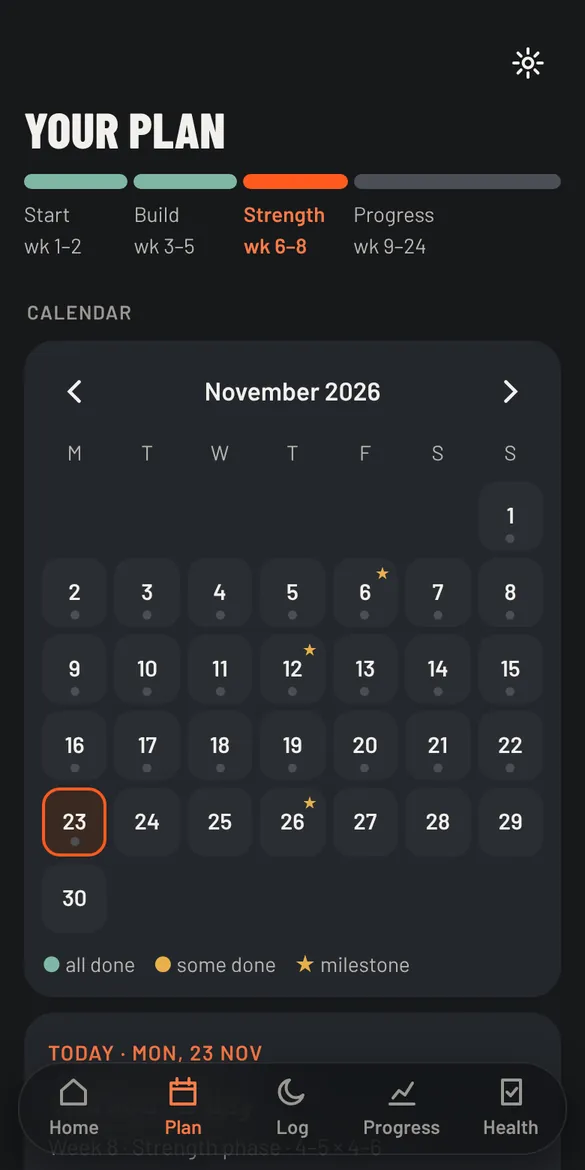
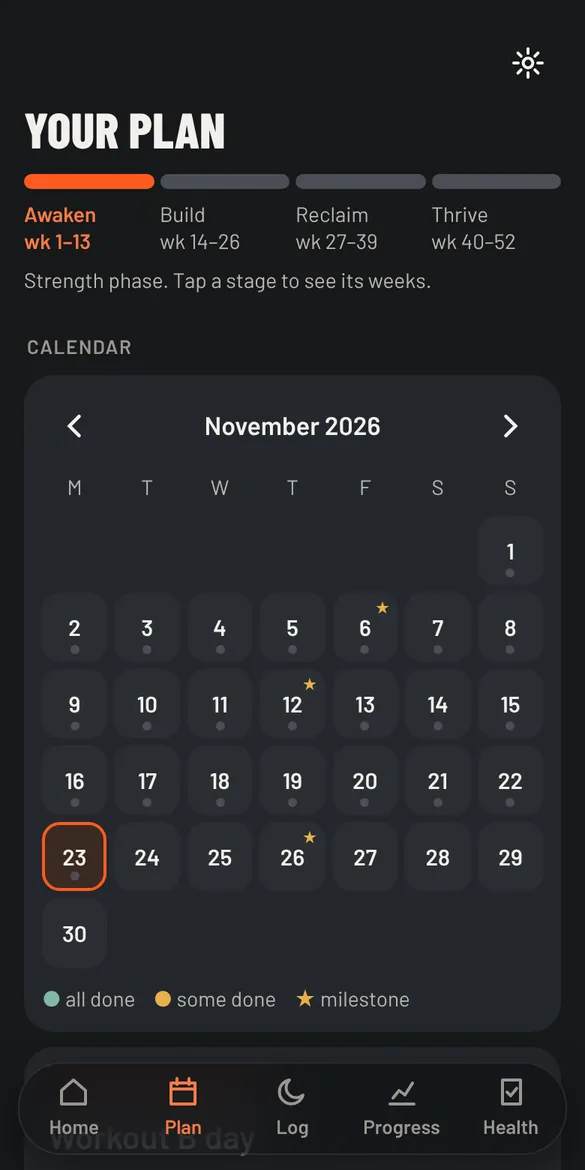
Align the website with the released 52-week app
- 52 weeks in four stages throughout: title, navigation, numbers strip, FAQ
- Timeline scroller now runs week 1 to 52 across Awaken, Build, Reclaim and Thrive
- All four stage cards marked available; 'planned' wording removed
- Membership text and FAQ: the 12-month plan covers all 52 weeks
- New features described: goals, stage reviews, sleep-quality rating, cardio choice, Minimum week
- Fresh screenshots from the released app, plus a new stage screen
- Evidence note: no cited study ran for a year; later stages build fitness and hold gains

Claude-Session: https://claude.ai/code/session_01Hr1Vhy7JFwF6pmfEZcUMyD

diff --git a/index.html b/index.html
@@ -3,13 +3,13 @@
 <head>
 <meta charset="utf-8">
 <meta name="viewport" content="width=device-width, initial-scale=1">
-<title>Breathe Strong | 24-week training program for men who snore or have obstructive sleep apnoea</title>
+<title>Breathe Strong | 52-week training program for men who snore or have obstructive sleep apnoea</title>
 <meta name="description" content="Reclaim your life. Less snoring, better breathing, better sleep. A structured exercise and lifestyle membership program for men over 40 who snore, live with obstructive sleep apnoea or use CPAP. Results vary; treatment changes are for your clinician.">
 <meta name="theme-color" content="#17181B">
 <link rel="canonical" href="https://swornsealed.github.io/breathe-strong-site/">
 <meta property="og:site_name" content="Breathe Strong">
 <meta property="og:title" content="Breathe Strong: less snoring, better breathing, better sleep">
-<meta property="og:description" content="A structured 24-week training program for men who snore or live with obstructive sleep apnoea.">
+<meta property="og:description" content="A structured 52-week training program for men who snore or live with obstructive sleep apnoea.">
 <meta property="og:type" content="website">
 <meta property="og:url" content="https://swornsealed.github.io/breathe-strong-site/">
 <link rel="preconnect" href="https://fonts.googleapis.com">
@@ -26,7 +26,7 @@
     <nav class="navlinks" aria-label="Main">
       <a href="./">Home</a>
       <a href="#how">How it works</a>
-      <a href="#journey">The 24-week program</a>
+      <a href="#journey">The 52-week program</a>
       <a href="#evidence">Evidence and safety</a>
       <a href="#membership">Membership</a>
       <a href="#faq">FAQ</a>
@@ -38,7 +38,7 @@
         <nav aria-label="Main, mobile">
           <a href="./">Home</a>
           <a href="#how">How it works</a>
-          <a href="#journey">The 24-week program</a>
+          <a href="#journey">The 52-week program</a>
           <a href="#evidence">Evidence and safety</a>
           <a href="#membership">Membership</a>
           <a href="#faq">FAQ</a>
@@ -127,7 +127,7 @@
 
 <section class="strip" aria-label="The program in numbers">
   <div class="wrap">
-    <div><b>24</b><span>weeks, in four phases</span></div>
+    <div><b>52</b><span>weeks, in four stages</span></div>
     <div><b>6</b><span>parts to the program</span></div>
     <div><b>35</b><span>minutes of daily routines, plus a main session most days</span></div>
     <div><b>4</b><span>equipment options, gym to bodyweight</span></div>
@@ -169,10 +169,10 @@
         </div>
       </article>
       <article class="card rv"><span class="n">02</span><h3>Breathing and respiratory exercises</h3><p>Resistance work with a handheld breathing trainer, breathing in and out, counted breath by breath as the level builds.</p><p class="when">Every day · about 8 minutes · trainer sold separately</p></article>
-      <article class="card rv"><span class="n">03</span><h3>Cardiovascular fitness</h3><p>Steady sessions at a pace where you can still hold a conversation, building from 30 to 45 minutes, with a short interval session from week 3 and one longer session each week.</p><p>Walking is one way to do it. A bike, the pool or a rowing machine count just the same, and a session can be broken into shorter bouts. You choose what suits your body.</p><p class="when">3 days a week</p></article>
+      <article class="card rv"><span class="n">03</span><h3>Cardiovascular fitness</h3><p>Steady sessions at a pace where you can still hold a conversation, building from 30 to 45 minutes, with a short interval session from week 3 and one longer session each week.</p><p>Walking is one way to do it. A bike, the pool or a rowing machine count just the same, and a session can be broken into shorter bouts. You choose what suits your body, and set it in the app.</p><p class="when">3 days a week</p></article>
       <article class="card rv"><span class="n">04</span><h3>Strength and conditioning</h3><p>Full-body sessions of deadlifts, presses, rows, squats and carries, with coaching on bracing and posture. Versions for the gym, dumbbells, household items or bodyweight.</p><p class="when">3 days a week · about 50 minutes</p></article>
       <article class="card rv"><span class="n">05</span><h3>Sleep-health habits</h3><p>A practical evening routine that includes gentle movement, calf raises and consistent wind-down habits. Some research has examined how fluid shifts during sleep may affect airway obstruction in certain people, but the benefits of these specific evening exercises for sleep apnoea remain uncertain.</p><p class="when">Every evening · about 15 minutes</p></article>
-      <article class="card wide rv"><span class="n">06</span><h3>Progress monitoring</h3><p>Log your night in about a minute each morning, tick off your sessions and repeat short checks at set points. The app charts your own numbers over time and builds a summary you can take to your clinician.</p><p class="when">About 1 minute each morning</p></article>
+      <article class="card wide rv"><span class="n">06</span><h3>Progress monitoring</h3><p>Log your night in about a minute each morning, tick off your sessions and repeat short checks at set points. Set your own goals, and review each 13-week stage from your own records. The app charts your numbers over time and builds a summary you can take to your clinician.</p><p class="when">About 1 minute each morning</p></article>
     </div>
   </div>
 </section>
@@ -202,7 +202,7 @@
       <li class="ca"><span class="d">Sat</span><b>Long easy walk</b><span class="t">about 45 min</span></li>
       <li class="re"><span class="d">Sun</span><b>Rest and mobility</b><span class="t">about 15 min</span></li>
     </ol>
-    <p class="fine rv">Times are approximate and the daily routines still apply on every day shown. Cardio does not have to be walking, and any session can be split into shorter bouts across the day. Steady cardio builds from 30 minutes in the first phase to 45 minutes from week 6. Done in full, the program comes to roughly 9 hours a week, so it is a real commitment and not a 20-minute fix.</p>
+    <p class="fine rv">Times are approximate and the daily routines still apply on every day shown. Cardio does not have to be walking, and any session can be split into shorter bouts across the day. Steady cardio builds from 30 minutes in the first phase to 45 minutes from week 6, and the Saturday session grows to 60 minutes in the later stages. From week 44 you can choose a lighter Minimum week of two strength and two cardio sessions. Done in full, the program comes to roughly 9 hours a week, so it is a real commitment and not a 20-minute fix.</p>
   </div>
 </section>
 
@@ -219,10 +219,11 @@
   <div class="rail" id="rail" tabindex="0" role="group" aria-label="Screens from the app">
     <figure class="shot"><div class="phone"><img src="img/app-day.webp" width="585" height="1170" loading="lazy" alt="The app's Today screen for a training day, listing the breathing trainer, airway routine, workout and evening wind-down, with a reminder to keep using CPAP every night."></div><figcaption><b>Daily training guidance</b><span>Each day’s sessions, in order, with times.</span></figcaption></figure>
     <figure class="shot"><div class="phone"><img src="img/app-routine.webp" width="585" height="1170" loading="lazy" alt="The airway routine player showing the tongue press exercise with an airway drawing, numbered steps and a note on where you should feel it."></div><figcaption><b>Exercise demonstrations</b><span>Step-by-step drawings and cues for every move.</span></figcaption></figure>
-    <figure class="shot"><div class="phone"><img src="img/app-plan.webp" width="585" height="1170" loading="lazy" alt="The Plan screen showing the four phases across 24 weeks and a monthly calendar with milestone days marked."></div><figcaption><b>The 24-week structure</b><span>Phases, calendar and checkpoints.</span></figcaption></figure>
+    <figure class="shot"><div class="phone"><img src="img/app-plan.webp" width="585" height="1170" loading="lazy" alt="The Plan screen showing the four stages across 52 weeks and a monthly calendar with milestone days marked."></div><figcaption><b>The 52-week structure</b><span>Four stages, a calendar and milestones.</span></figcaption></figure>
+    <figure class="shot"><div class="phone"><img src="img/app-stage.webp" width="585" height="1170" loading="lazy" alt="A stage screen listing each week with its phase, lift scheme and Saturday session length, with the current week marked."></div><figcaption><b>Every week laid out</b><span>Open a stage to see its 13 weeks.</span></figcaption></figure>
     <figure class="shot"><div class="phone"><img src="img/app-breathing.webp" width="585" height="1170" loading="lazy" alt="The breathing trainer screen with a breath counter, a button to tap for each breath and a trainer level control."></div><figcaption><b>Breathing sessions</b><span>Counted sets with your trainer level.</span></figcaption></figure>
     <figure class="shot"><div class="phone"><img src="img/app-workout.webp" width="585" height="1170" loading="lazy" alt="A strength workout screen listing exercises with sets, reps, a log for weights and rest timers."></div><figcaption><b>Strength and cardio sessions</b><span>Sets, reps, logging and rest timers.</span></figcaption></figure>
-    <figure class="shot"><div class="phone"><img src="img/app-log.webp" width="585" height="1170" loading="lazy" alt="The Log last night screen with fields for snore score, partner rating and daytime tiredness."></div><figcaption><b>Progress tracking</b><span>A one-minute log each morning.</span></figcaption></figure>
+    <figure class="shot"><div class="phone"><img src="img/app-log.webp" width="585" height="1170" loading="lazy" alt="The Log last night screen with fields for snore score, partner rating, daytime tiredness and sleep quality."></div><figcaption><b>Progress tracking</b><span>A one-minute log each morning.</span></figcaption></figure>
   </div>
   <div class="wrap">
     <div class="moves">
@@ -235,31 +236,31 @@
   </div>
 </section>
 
-<!-- E: 24-week journey -->
+<!-- E: 52-week journey -->
 <section class="weeks" id="journey" aria-labelledby="jh">
   <div class="pin">
     <div class="wrap">
-      <p class="eyebrow">Your 24-week journey</p>
-      <h2 id="jh">Four phases, then a review</h2>
-      <p class="intro">The program builds consistency first, then exercise capacity, with regular checkpoints so you keep monitoring. It does not promise a particular result by a particular week.</p>
+      <p class="eyebrow">Your 52-week journey</p>
+      <h2 id="jh">Four stages, a review every 13 weeks</h2>
+      <p class="intro">The program builds consistency first, then exercise capacity, then a level you can keep up. It does not promise a particular result by a particular week.</p>
       <div aria-hidden="true">
-        <div class="wk"><span class="lab">Week</span><span class="num" id="wn">01</span><span class="of">/ 24</span></div>
-        <div class="phase" id="ph"><h3 id="pt">Foundation</h3><p id="pd">Learn the exercises and settle into the daily routine. Strength work at 3 sets of 10–12, steady cardio for 30 minutes. Log your nights to set a baseline.</p></div>
+        <div class="wk"><span class="lab">Week</span><span class="num" id="wn">01</span><span class="of">/ 52</span></div>
+        <div class="phase" id="ph"><h3 id="pt">Awaken · Foundation</h3><p id="pd">Learn the exercises and settle into the daily routine. Strength work at 3 sets of 10–12, steady cardio for 30 minutes. Log your nights to set a baseline.</p></div>
         <div class="track"><i id="fill"></i></div>
-        <div class="ticks"><span>Found.</span><span>Build</span><span>Strength</span><span>Progression</span></div>
+        <div class="ticks"><span>Awaken</span><span>Build</span><span>Reclaim</span><span>Thrive</span></div>
       </div>
       <ol class="vh">
-        <li>Weeks 1 to 2, Foundation: learn the exercises and settle into the daily routine. Strength work at 3 sets of 10 to 12, steady cardio for 30 minutes. Log your nights to set a baseline.</li>
-        <li>Weeks 3 to 5, Build: strength work moves to 4 sets of 6 to 8 and cardio to 40 minutes. First checkpoint at week 4.</li>
-        <li>Weeks 6 to 8, Strength: 4 to 5 sets of 4 to 6 and cardio at 45 minutes. Second checkpoint at week 8.</li>
-        <li>Weeks 9 to 24, Progression: the same sessions with small loads added over time. Compare your logs with your baseline at 3 months.</li>
-        <li>Week 24, Review: compare your records with where you started and take your summary to your clinician. If you use CPAP or an oral appliance, ask whether repeat sleep testing is appropriate.</li>
+        <li>Awaken, weeks 1 to 13. Weeks 1 to 2, Foundation: 3 sets of 10 to 12 and 30 minutes of steady cardio. Weeks 3 to 5, Build: 4 sets of 6 to 8 and 40 minutes. Weeks 6 to 8, Strength: 4 to 5 sets of 4 to 6 and 45 minutes. Weeks 9 to 13, Progression: small loads added over time. Stage review at week 13.</li>
+        <li>Build, weeks 14 to 26. Progression continues. Week 26 is a lighter week with the half-year review.</li>
+        <li>Reclaim, weeks 27 to 39. Weeks 27 to 30 rebuild at 4 sets of 6 to 8 with a 50-minute weekend session. Weeks 31 to 38 return to 4 to 5 sets of 4 to 6 with the weekend session at 55 then 60 minutes. Week 39 is a lighter week with a stage review.</li>
+        <li>Thrive, weeks 40 to 52. Weeks 40 to 43 consolidate at 4 sets of 6 to 8. Weeks 44 to 51 hold loads at 3 sets of 5 to 8, with a choice of a Standard or Minimum week. Week 52 is a lighter week with the year-end review.</li>
+        <li>Tongue and throat training and breathing-trainer work stay at the same daily dose from week 6 to week 52.</li>
       </ol>
     </div>
   </div>
 </section>
 
-<!-- The 12-month journey: stages 3 and 4 are planned, not available -->
+<!-- The 12-month journey: all four stages are in the released app -->
 <section class="road" id="roadmap" aria-labelledby="rh">
   <div class="wrap">
     <p class="eyebrow rv">Breathe Strong: reclaim your life</p>
@@ -281,10 +282,10 @@
     <ol class="stages rv">
       <li class="now"><span class="m">Months 1–3</span><b>Awaken</b><span class="s">Take the first steps. Establish your training, understand your sleep and begin building healthier habits.</span><span class="st">Available now</span></li>
       <li class="now"><span class="m">Months 4–6</span><b>Build</b><span class="s">Develop consistency, progress your fitness and strength, and start measuring meaningful changes.</span><span class="st">Available now</span></li>
-      <li class="later"><span class="m">Months 7–9</span><b>Reclaim</b><span class="s">Build on your foundation. Continue improving physical capacity, airway training and sleep-related wellbeing.</span><span class="st">Planned</span></li>
-      <li class="later"><span class="m">Months 10–12</span><b>Thrive</b><span class="s">Consolidate your progress and make strength, fitness and better sleep habits part of your everyday life.</span><span class="st">Planned</span></li>
+      <li class="now"><span class="m">Months 7–9</span><b>Reclaim</b><span class="s">Build on your foundation. Continue improving physical capacity, airway training and sleep-related wellbeing.</span><span class="st">Available now</span></li>
+      <li class="now"><span class="m">Months 10–12</span><b>Thrive</b><span class="s">Consolidate your progress and make strength, fitness and better sleep habits part of your everyday life.</span><span class="st">Available now</span></li>
     </ol>
-    <p class="fine rv">Membership currently provides the initial 24-week foundation, with the remaining stages planned for future development. They are not yet available and have not been tested.</p>
+    <p class="fine rv">All four stages, 52 weeks in total, are in the current app. After week 52 it carries on with a maintenance week, so you can keep what you have built.</p>
     <p class="roadclose rv">You’ve built a life worth living. Now build the strength to enjoy it.</p>
     <p class="mut rv" style="max-width:46em;margin:14px 0 0">Breathe Strong complements, rather than replaces, prescribed sleep apnoea treatment. Results vary, and any treatment changes require appropriate clinical assessment.</p>
   </div>
@@ -340,7 +341,7 @@
       </article>
     </div>
 
-    <p class="fine rv"><b style="color:var(--ink)">What membership includes today.</b> The first 24 weeks of the program (the Awaken and Build stages) and the features shown on this page. The Reclaim and Thrive stages, months 7 to 12, are planned and have not been released. The 12-month plan covers 12 months of access to whatever has been released, not 12 months of finished program content.</p>
+    <p class="fine rv"><b style="color:var(--ink)">What membership includes.</b> All 52 weeks of the program: the Awaken, Build, Reclaim and Thrive stages, a review every 13 weeks, and the features shown on this page.</p>
 
     <div class="grid2 trial">
       <div class="rv">
@@ -372,17 +373,18 @@
 <!-- F: Measure your progress -->
 <section class="measure" id="measure">
   <div class="wrap">
-    <div class="phone rv"><img src="img/app-log.webp" width="585" height="1170" loading="lazy" alt="The Log last night screen, where you type in your snore score, a partner rating and how tired you feel."></div>
+    <div class="phone rv"><img src="img/app-log.webp" width="585" height="1170" loading="lazy" alt="The Log last night screen, where you type in your snore score, a partner rating, how tired you feel and how well you slept."></div>
     <div>
       <p class="eyebrow rv">Measure your progress</p>
       <h2 class="rv">Your own numbers, over time</h2>
       <ul class="plain rv">
         <li><b>Snoring.</b> A nightly snore score you copy in from a separate snore-recording app on your phone, plus an optional rating from your partner.</li>
-        <li><b>Daytime energy.</b> A daily tiredness rating and a short energy check you repeat at checkpoints.</li>
+        <li><b>Sleep quality and daytime energy.</b> A 0–10 rating of how well you slept, a daily tiredness rating, and a short energy check you repeat every four weeks.</li>
         <li><b>Training.</b> Sessions ticked off as you go, with weights and reps logged for strength work.</li>
         <li><b>CPAP.</b> Hours used, events per hour and mask seal, typed in from what your machine reports.</li>
         <li><b>Watch or ring.</b> Resting heart rate, breathing rate and blood oxygen, typed in from your wearable’s own app.</li>
         <li><b>Sleep studies.</b> Results from your clinician, entered by you, kept alongside your logs.</li>
+        <li><b>Goals and stage reviews.</b> Up to three goals in your own words, rated at weeks 13, 26, 39 and 52, alongside a summary of each stage built from your own records.</li>
         <li><b>Clinician summary.</b> A plain-text summary of your records to bring to an appointment.</li>
       </ul>
       <p class="fine rv">In the current app, every number is entered by hand. The app does not record or measure snoring, oxygen or breathing events itself, and there is no automatic sync with CPAP machines or watches yet. These records show trends. They cannot show whether obstructive sleep apnoea has resolved; only a sleep study reviewed by your clinician can.</p>
@@ -393,9 +395,9 @@
 <!-- The commitment -->
 <section class="deal">
   <div class="wrap">
-    <h2><span class="rv">24 weeks of training.</span><span class="rv">Measure your progress.</span><span class="rv">Review your results.</span></h2>
+    <h2><span class="rv">52 weeks of training.</span><span class="rv">Measure your progress.</span><span class="rv">Review your results.</span></h2>
     <div class="grid2">
-      <div class="rv"><h3>At the end of the program</h3><p>At the end of the program, compare your progress with your starting point and discuss your results with your clinician. Depending on your circumstances, repeat sleep testing may be appropriate to reassess your obstructive sleep apnoea and treatment needs.</p></div>
+      <div class="rv"><h3>At each review</h3><p>At the end of each stage, and of the program, compare your progress with your starting point and discuss your results with your clinician. Depending on your circumstances, repeat sleep testing may be appropriate to reassess your obstructive sleep apnoea and treatment needs.</p></div>
       <div class="rv"><h3>Throughout</h3><p>Keep using your CPAP or oral appliance exactly as prescribed unless your clinician advises otherwise. Snore scores, machine readings and wearable data show trends. On their own they cannot show that obstructive sleep apnoea has resolved.</p></div>
     </div>
   </div>
@@ -456,7 +458,7 @@
         </details>
       </article>
     </div>
-    <p class="fine rv">These studies tested individual methods, mostly over two to four months and in small groups. The Breathe Strong program as a whole has not been tested in a clinical trial, and it is not a medical device or a medical treatment.</p>
+    <p class="fine rv">These studies tested individual methods, mostly over two to four months and in small groups. None followed people for a year: the later stages are designed to keep building fitness and to hold on to what has been gained, which fades quickly once training stops. The Breathe Strong program as a whole has not been tested in a clinical trial, and it is not a medical device or a medical treatment.</p>
 
     <div class="caution rv" id="safety">
       <p class="eyebrow">Safety</p>
@@ -500,11 +502,11 @@
     </details>
     <details>
       <summary>Can Breathe Strong help me stop using CPAP?</summary>
-      <p>No one can promise that. If your snoring, symptoms and records improve over the 24 weeks, that gives you a good reason to ask your clinician about reassessment, which may include repeat sleep testing. Some people may then have their treatment adjusted. Others will need to continue as they are. Stopping CPAP is never guaranteed, and it should only happen under medical supervision with appropriate objective testing. Until your clinician says otherwise, use your CPAP every night.</p>
+      <p>No one can promise that. If your snoring, symptoms and records improve over the program, that gives you a good reason to ask your clinician about reassessment, which may include repeat sleep testing. Some people may then have their treatment adjusted. Others will need to continue as they are. Stopping CPAP is never guaranteed, and it should only happen under medical supervision with appropriate objective testing. Until your clinician says otherwise, use your CPAP every night.</p>
     </details>
     <details>
       <summary>How long is the program?</summary>
-      <p>24 weeks, in four phases: Foundation (weeks 1–2), Build (weeks 3–5), Strength (weeks 6–8) and Progression (weeks 9–24), with checkpoints at weeks 4 and 8 and a review at the end.</p>
+      <p>52 weeks, in four 13-week stages: Awaken, Build, Reclaim and Thrive. Your checks repeat every four weeks and there is a review at the end of each stage, at weeks 13, 26, 39 and 52. After week 52 the app carries on with a maintenance week.</p>
     </details>
     <details>
       <summary>How much time will I need each day?</summary>
@@ -520,7 +522,7 @@
     </details>
     <details>
       <summary>What if walking is hard on my knees, hips or back?</summary>
-      <p>Then choose something else. Plenty of men come to this with old injuries or worn joints, and that can be part of why fitness and muscle have dropped away over the years. The cardio is about steady effort, not about walking.</p>
+      <p>Then choose something else. Plenty of men come to this with old injuries or worn joints, and that can be part of why fitness and muscle have dropped away over the years. The cardio is about steady effort, not about walking. You set your activity in the app’s Settings.</p>
       <p>Pick whatever lets you keep going comfortably: a stationary or recumbent bike, swimming or walking in water, a cross-trainer, a rowing machine, or a seated option such as an arm bike. You can also break a session into shorter bouts, for example three 10-minute blocks across the day. The loaded backpack is always optional.</p>
       <p>How you do it is your call. Start from where you are and build from there. If you are unsure what is safe for an injury, a GP or physiotherapist can help you choose.</p>
     </details>
@@ -537,8 +539,8 @@
       <p>You choose a plan and enter payment details with a secure payment provider, then get seven days of access. If you don’t cancel during the trial, the plan you chose is charged automatically when it ends. The checkout will show the exact amount, the first billing date, how often you are billed, the renewal terms and how to cancel before you commit.</p>
     </details>
     <details>
-      <summary>What do I get for a 12-month membership if only 24 weeks are released?</summary>
-      <p>Today, membership covers the first 24 weeks of the program, the Awaken and Build stages. The Reclaim and Thrive stages are planned but not released, and no release date has been announced. A 12-month membership gives you 12 months of access to everything released during that time. If you would rather not pay ahead for stages that don’t exist yet, the monthly plan is the flexible choice.</p>
+      <summary>What does the 12-month membership cover?</summary>
+      <p>All four stages of the program, 52 weeks in total, with a review at the end of each stage. If you would rather not commit to a year up front, the monthly plan gives you the same program month by month.</p>
     </details>
     <details>
       <summary>Does Breathe Strong replace medical treatment?</summary>
@@ -625,19 +627,24 @@ else{
 
 /* header + week counter */
 var hdr=d.getElementById('hdr'),wk=d.getElementById('journey'),wn=d.getElementById('wn'),pt=d.getElementById('pt'),pd=d.getElementById('pd'),ph=d.getElementById('ph'),fill=d.getElementById('fill'),cur=-1;
-var P=[[1,'Foundation','Learn the exercises and settle into the daily routine. Strength work at 3 sets of 10–12, steady cardio for 30 minutes. Log your nights to set a baseline.'],
-[3,'Build','Strength work moves to 4 sets of 6–8 and cardio to 40 minutes. First checkpoint at week 4: repeat your checks and see what has changed.'],
-[6,'Strength','4–5 sets of 4–6 and cardio at 45 minutes. Second checkpoint at week 8.'],
-[9,'Progression','The same sessions, with small loads added over time. At 3 months, compare your logs with your baseline.'],
-[24,'Review','Compare your records with where you started and take your summary to your clinician. If you use CPAP or an oral appliance, ask whether repeat sleep testing is appropriate.']];
+var P=[[1,'Awaken · Foundation','Learn the exercises and settle into the daily routine. Strength work at 3 sets of 10–12, steady cardio for 30 minutes. Log your nights to set a baseline.'],
+[3,'Awaken · Build','Strength work moves to 4 sets of 6–8 and cardio to 40 minutes. Repeat your checks at week 4.'],
+[6,'Awaken · Strength','4–5 sets of 4–6 and cardio at 45 minutes. Airway and breathing work reach their full daily dose and stay there.'],
+[9,'Awaken · Progression','The same sessions, with small loads added over time. First stage review at week 13.'],
+[14,'Build · Progression','Keep the loads creeping up and the daily routines steady. Week 26 is a lighter week with the half-year review.'],
+[27,'Reclaim · Rebuild','Loads rebuild at 4 sets of 6–8 and the weekend session grows to 50 minutes.'],
+[31,'Reclaim · Progression','Back to 4–5 sets of 4–6, with the weekend session at 55 then 60 minutes. Week 39 is a lighter week with a stage review.'],
+[40,'Thrive · Consolidate','4 sets of 6–8 with a 60-minute weekend session.'],
+[44,'Thrive · Maintain','3 sets of 5–8, holding your loads. Choose a Standard or Minimum week you can keep up.'],
+[52,'Year-end review','A lighter week. Compare the year with where you started and take your summary to your clinician. If you use CPAP or an oral appliance, ask whether repeat sleep testing is appropriate.']];
 function onScroll(){
   hdr.classList.toggle('solid',scrollY>40);
   var r=wk.getBoundingClientRect(),span=r.height-innerHeight,p=Math.max(0,Math.min(1,-r.top/span));
-  var w=Math.min(24,1+Math.floor(p*24.5));
-  fill.style.transform='scaleX('+(w===24?1:p)+')';
+  var w=Math.min(52,1+Math.floor(p*52.5));
+  fill.style.transform='scaleX('+(w===52?1:p)+')';
   if(w!==cur){cur=w;wn.textContent=(w<10?'0':'')+w;
     var i=0;for(var k=0;k<P.length;k++)if(w>=P[k][0])i=k;
-    if(pt.textContent!==P[i][1]){pt.textContent=P[i][1];pd.textContent=P[i][2];ph.classList.toggle('end',i===4);fill.style.background=i===4?'var(--acc)':'var(--air)'}
+    if(pt.textContent!==P[i][1]){pt.textContent=P[i][1];pd.textContent=P[i][2];ph.classList.toggle('end',i===P.length-1);fill.style.background=i===P.length-1?'var(--acc)':'var(--air)'}
   }
 }
 addEventListener('scroll',onScroll,{passive:true});addEventListener('resize',onScroll);onScroll();

diff --git a/site.css b/site.css
@@ -131,7 +131,7 @@ header .wrap{display:flex;align-items:center;justify-content:space-between;gap:1
 @media (max-width:520px){.moves{grid-template-columns:repeat(2,minmax(0,1fr))}.moves figure:nth-child(3){display:none}}
 
 /* 24-week journey */
-.weeks{height:300vh;position:relative;background:var(--deep);padding:0}
+.weeks{height:420vh;position:relative;background:var(--deep);padding:0}
 .weeks .pin{position:sticky;top:0;height:100svh;display:flex;align-items:center;overflow:hidden;padding-top:64px}
 .weeks .wrap{width:100%}
 .weeks h2{font-size:clamp(28px,4vw,44px)}
@@ -146,7 +146,7 @@ header .wrap{display:flex;align-items:center;justify-content:space-between;gap:1
 .phase p{color:var(--mut);margin:0}
 .track{position:relative;height:10px;border-radius:5px;background:var(--line);margin-top:20px;overflow:hidden}
 .track i{position:absolute;inset:0;background:var(--air);transform-origin:left;transform:scaleX(0)}
-.ticks{display:grid;grid-template-columns:2fr 3fr 3fr 16fr;font-size:14px;color:var(--dim);margin-top:8px;text-transform:uppercase;letter-spacing:1px}
+.ticks{display:grid;grid-template-columns:repeat(4,1fr);font-size:14px;color:var(--dim);margin-top:8px;text-transform:uppercase;letter-spacing:1px}
 .ticks span{white-space:nowrap;overflow:hidden}
 @media (max-width:640px){.ticks{display:none}.wk .num{letter-spacing:-2px}}
 @media (max-height:620px){.weeks .intro{display:none}}
@@ -248,7 +248,7 @@ footer nav a{color:var(--mut);padding:10px 0;display:inline-block}
 .facts{list-style:none;padding:0;margin:30px auto 0;display:flex;flex-wrap:wrap;justify-content:center;gap:8px;max-width:760px}
 .facts li{border:1px solid var(--line);border-radius:20px;padding:7px 14px;color:var(--mut);font-size:15px}
 /* phones: tighter rhythm and a shorter pinned timeline */
-@media (max-width:760px){.sechead{margin-bottom:26px}.weeks{height:240vh}.final{padding:72px 0}.card{padding:22px}.deal .grid2{margin-top:28px;gap:24px}}
+@media (max-width:760px){.sechead{margin-bottom:26px}.weeks{height:340vh}.final{padding:72px 0}.card{padding:22px}.deal .grid2{margin-top:28px;gap:24px}}
 
 /* information page structure */
 .doc section{padding:0}

diff --git a/about.html b/about.html
@@ -26,7 +26,7 @@
     <nav class="navlinks" aria-label="Main">
       <a href="./">Home</a>
       <a href="./#how">How it works</a>
-      <a href="./#journey">The 24-week program</a>
+      <a href="./#journey">The 52-week program</a>
       <a href="./#evidence">Evidence and safety</a>
       <a href="./#faq">FAQ</a>
     </nav>
@@ -37,7 +37,7 @@
         <nav aria-label="Main, mobile">
           <a href="./">Home</a>
           <a href="./#how">How it works</a>
-          <a href="./#journey">The 24-week program</a>
+          <a href="./#journey">The 52-week program</a>
           <a href="./#evidence">Evidence and safety</a>
           <a href="./#faq">FAQ</a>
           <a href="https://swornsealed.github.io/breathe-strong/">Launch tester</a>
@@ -135,7 +135,7 @@
       <h2 id="about">About Breathe Strong</h2>
       <!-- TODO (owner): item 1, who owns and develops Breathe Strong (name or business name, location), item 4, the
            legal jurisdiction, and any relevant qualifications or clinical advisers, only if real and verifiable. -->
-      <p>Breathe Strong is an independently developed 24-week program for men over 40 who snore, live with obstructive sleep apnoea or use CPAP. It is currently in its tester stage.</p>
+      <p>Breathe Strong is an independently developed 52-week program for men over 40 who snore, live with obstructive sleep apnoea or use CPAP. It is currently in its tester stage.</p>
       <p class="pending">Details of who owns and develops Breathe Strong will be added here before the full program goes on sale.</p>
     </section>
   </div>

diff --git a/privacy.html b/privacy.html
@@ -28,7 +28,7 @@
     <nav class="navlinks" aria-label="Main">
       <a href="./">Home</a>
       <a href="./#how">How it works</a>
-      <a href="./#journey">The 24-week program</a>
+      <a href="./#journey">The 52-week program</a>
       <a href="./#evidence">Evidence and safety</a>
       <a href="./#faq">FAQ</a>
     </nav>
@@ -39,7 +39,7 @@
         <nav aria-label="Main, mobile">
           <a href="./">Home</a>
           <a href="./#how">How it works</a>
-          <a href="./#journey">The 24-week program</a>
+          <a href="./#journey">The 52-week program</a>
           <a href="./#evidence">Evidence and safety</a>
           <a href="./#faq">FAQ</a>
           <a href="https://swornsealed.github.io/breathe-strong/">Launch tester</a>

diff --git a/LAUNCH-CHECKLIST.md b/LAUNCH-CHECKLIST.md
@@ -49,7 +49,7 @@ See `docs/membership-architecture.md` for the proposed payment set-up.
 - [ ] Confirm final prices and currency (indicative: A$19.95 monthly, A$203.49 for 12 months)
 - [ ] Decide whether the 12-month plan renews automatically, and state it on the annual card
 - [ ] Refund policy and published membership terms (the monthly card refers to "the published terms", which do not exist yet)
-- [ ] Legal review of selling a 12-month plan while only 24 weeks of program are released
+- [x] All 52 weeks are released in the app, so the 12-month plan matches the content available
 - [ ] Add the payment provider to the Privacy Policy (sections 6 and 10) once chosen
 - [ ] Update `about.html` "Tester limitations", which still describes a free tester
 - [ ] Build and test checkout, cancellation, notifications and access control before enabling the buttons

diff --git a/docs/membership-architecture.md b/docs/membership-architecture.md
@@ -41,7 +41,6 @@ disabled until every item under "Before switching on" is done.
   so a no-account mode cannot be checked. Options: require sign-in for members, or keep a limited
   free phone-only mode.
 - What existing testers get when the paywall arrives.
-- How a 12-month sale is described while only 24 weeks of program exist.
 - GST and tax handling, and the business details Stripe requires (ties to the privacy checklist).
 
 ## To verify with the payment provider before relying on it
